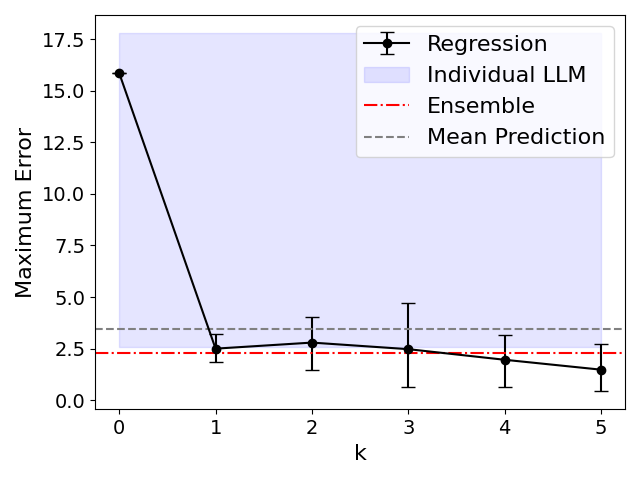
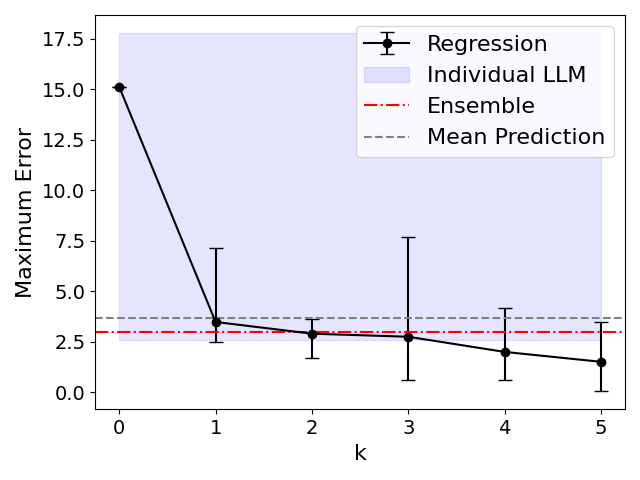
mse loss function and print GV_hat

diff --git a/src/regressor/loss.py b/src/regressor/loss.py
@@ -48,6 +48,33 @@ def loss_pred_crossEntropy(pVv, pViv, pG, GV):
         for j in range(GV.shape[1])
     ])
 
+def loss_pred_mse(pVv, pViv, pG, GV):
+    """
+    Calculate the mean squared error between the predicted and actual gene-variant matrices.
+
+    This function computes the mean squared error between the generator precision
+    prediction by validator (GV) and its estimate by regression method (GV_hat).
+    The GV_hat matrix is constructed using outer products of generator and validator performance vectors.
+    
+    Parameters:
+    -----------
+    pVv : numpy.ndarray
+        Probability vector of a validator classifying output as valid.
+    pViv : numpy.ndarray
+        Probability vector of a validator classifying output as invalid.
+    pG : numpy.ndarray
+        Probability vector for generator output being valid.
+    GV : numpy.ndarray
+        Generator precision prediction by validator matrix.
+    
+    Returns:
+    --------
+    float
+        Mean squared error between GV and GV_hat.
+    """
+    GV_hat = np.outer(pG, pVv) + np.outer((1 - pG), (1 - pViv))
+    return np.mean((GV_hat - GV)**2)
+
 def loss_pred_mae(pVv, pViv, pG, GV):
     """
     Calculate the mean absolute error between the predicted and actual gene-variant matrices.
@@ -100,7 +127,7 @@ def loss_pred_huber(pVv, pViv, pG, GV):
         Huber loss between GV and GV_hat.
     """
     GV_hat = np.outer(pG, pVv) + np.outer((1 - pG), (1 - pViv))
-    delta = 0.05
+    delta = 0.01
     return np.mean(np.where(np.abs(GV_hat - GV) < delta,
                              0.5 * (GV_hat - GV)**2,
                              delta * (np.abs(GV_hat - GV) - 0.5 * delta)))
@@ -136,6 +163,8 @@ def loss_pred_rmse(pVv, pViv, pG, GV):
 def loss_pred(pVv, pViv, pG, GV):
     if LOSS_PRED == 'crossEntropy':
         return loss_pred_crossEntropy(pVv, pViv, pG, GV)
+    elif LOSS_PRED == 'mse':
+        return loss_pred_mse(pVv, pViv, pG, GV)
     elif LOSS_PRED == 'rmse':
         return loss_pred_rmse(pVv, pViv, pG, GV)
     elif LOSS_PRED == 'mae':

diff --git a/src/regressor/regressor.py b/src/regressor/regressor.py
@@ -134,6 +134,7 @@ def print_values_k(k1, numComb, j, pGa, VALIDATOR_COUNTS, log, max_errors, avg_e
     print(f"=========================")
 
     G, Ghat, errorG, pVv, pViv = extract_values_log(pGa, VALIDATOR_COUNTS, log)
+    GV_hat = np.outer(Ghat, pVv) + np.outer((1 - Ghat), (1 - pViv))
     
     print(f'\tG vs G_hat:', end=' ')
     print_values_pair(G, Ghat, pGa.keys())
@@ -146,6 +147,8 @@ def print_values_k(k1, numComb, j, pGa, VALIDATOR_COUNTS, log, max_errors, avg_e
     
     print(f"\n\tMax G Error (Validation): {max_errors[-1]}")
     print(f"\tAvg G Error (Validation): {avg_errors[-1]}")
+
+    print(GV_hat)
 
     print(f"\tG Error (Test): {errorG}")
 
